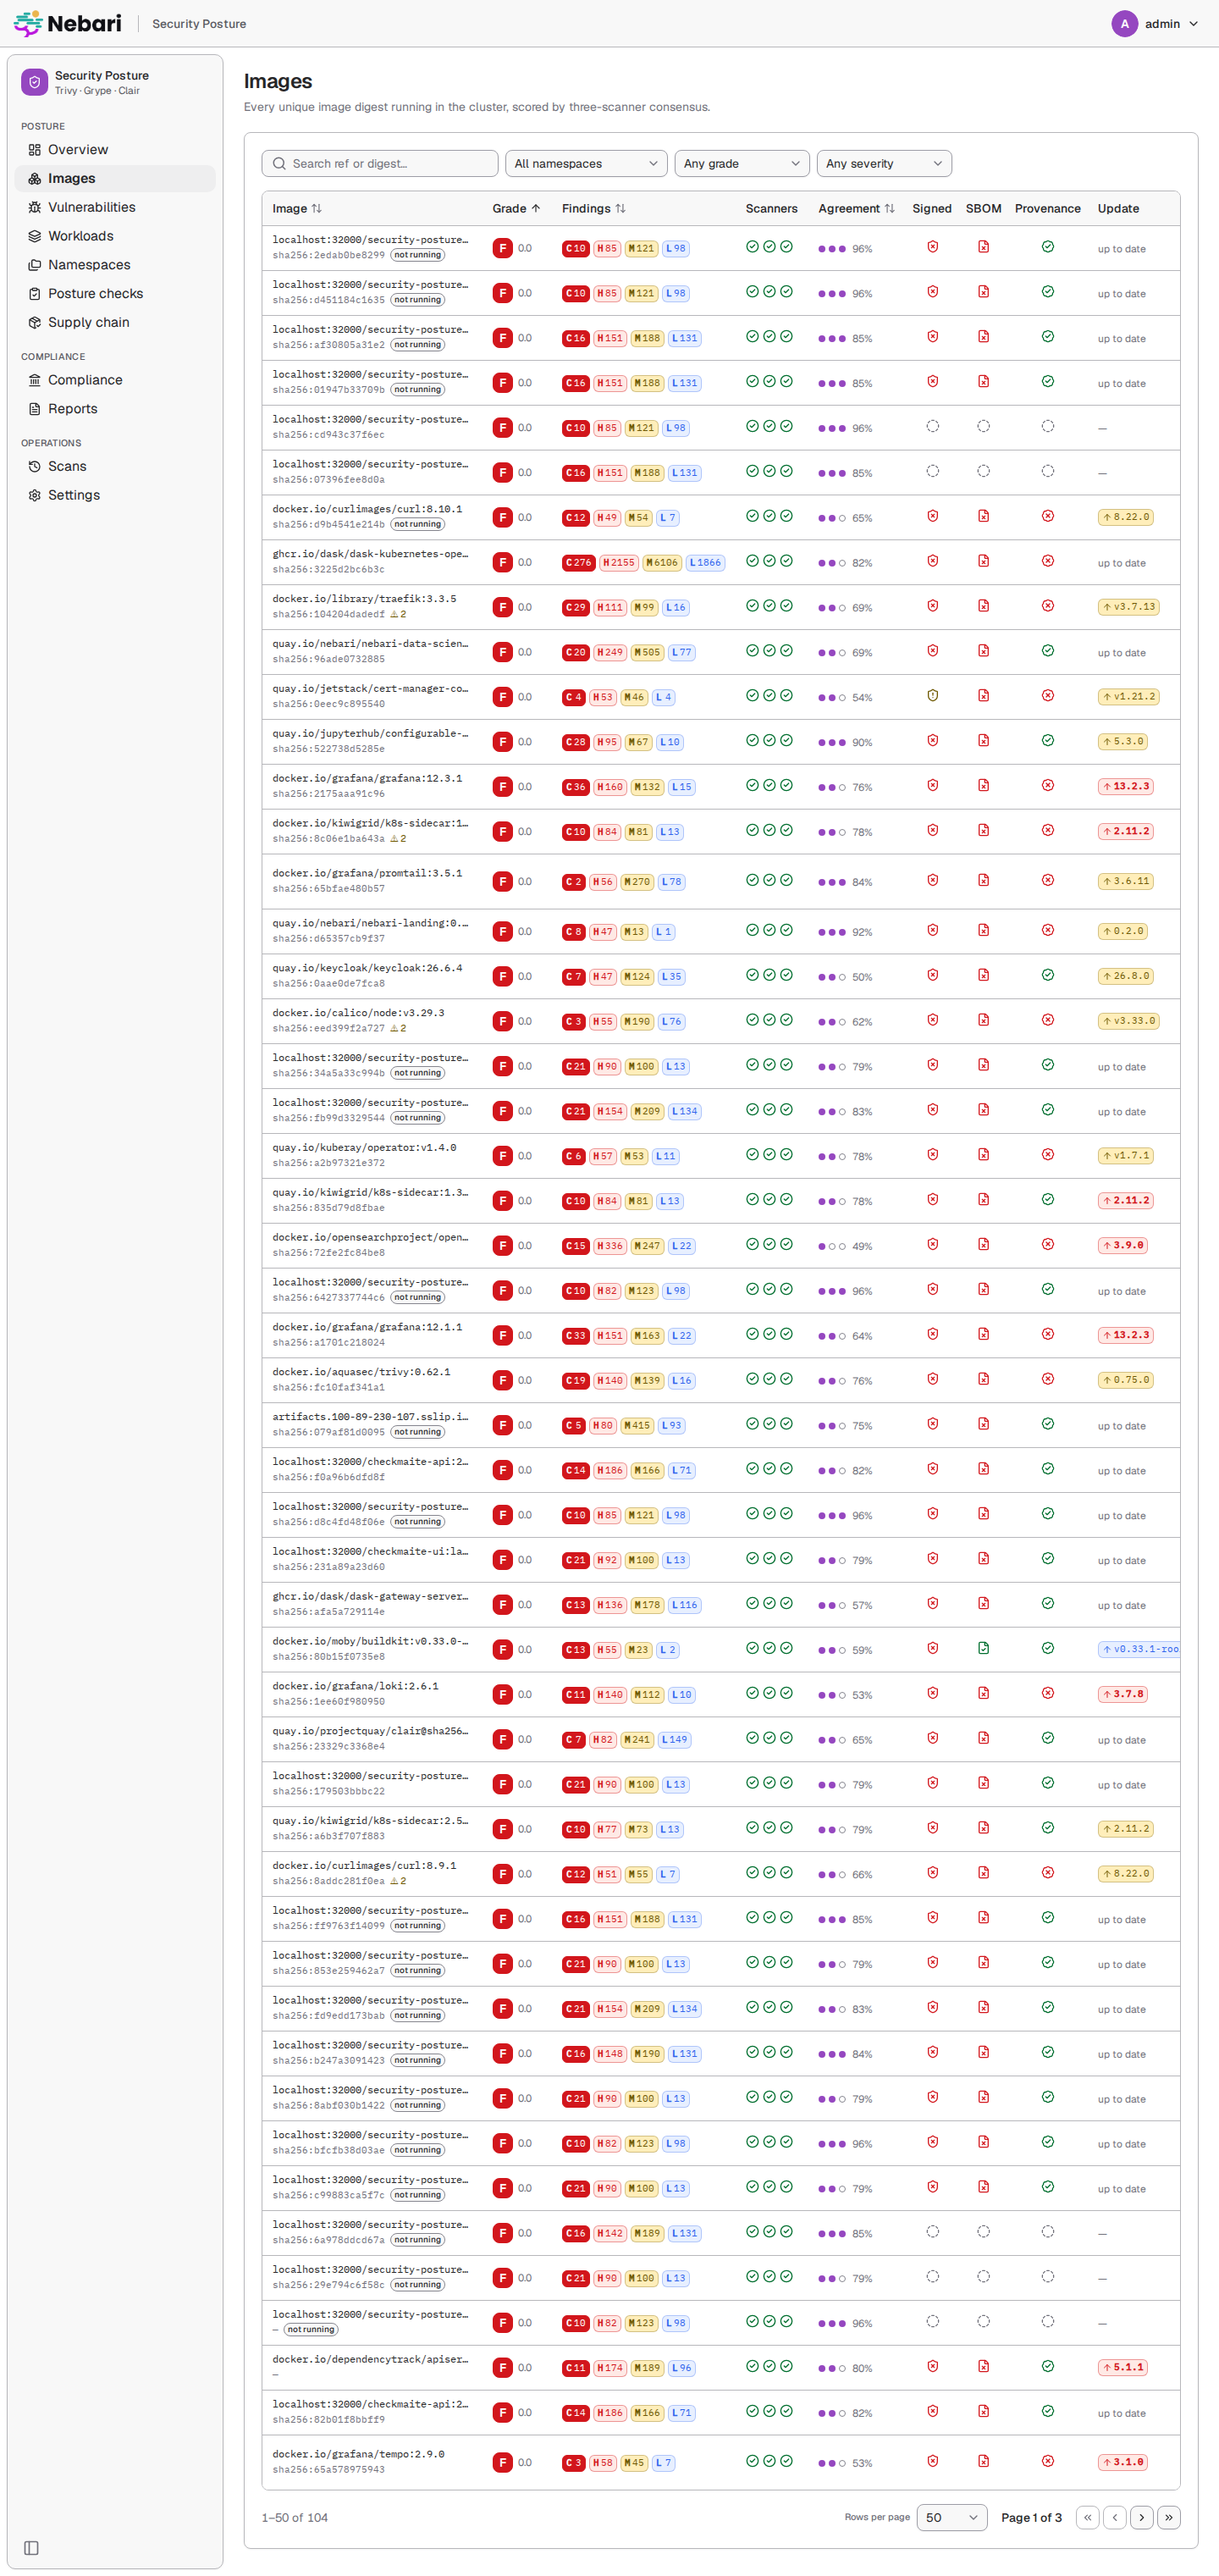
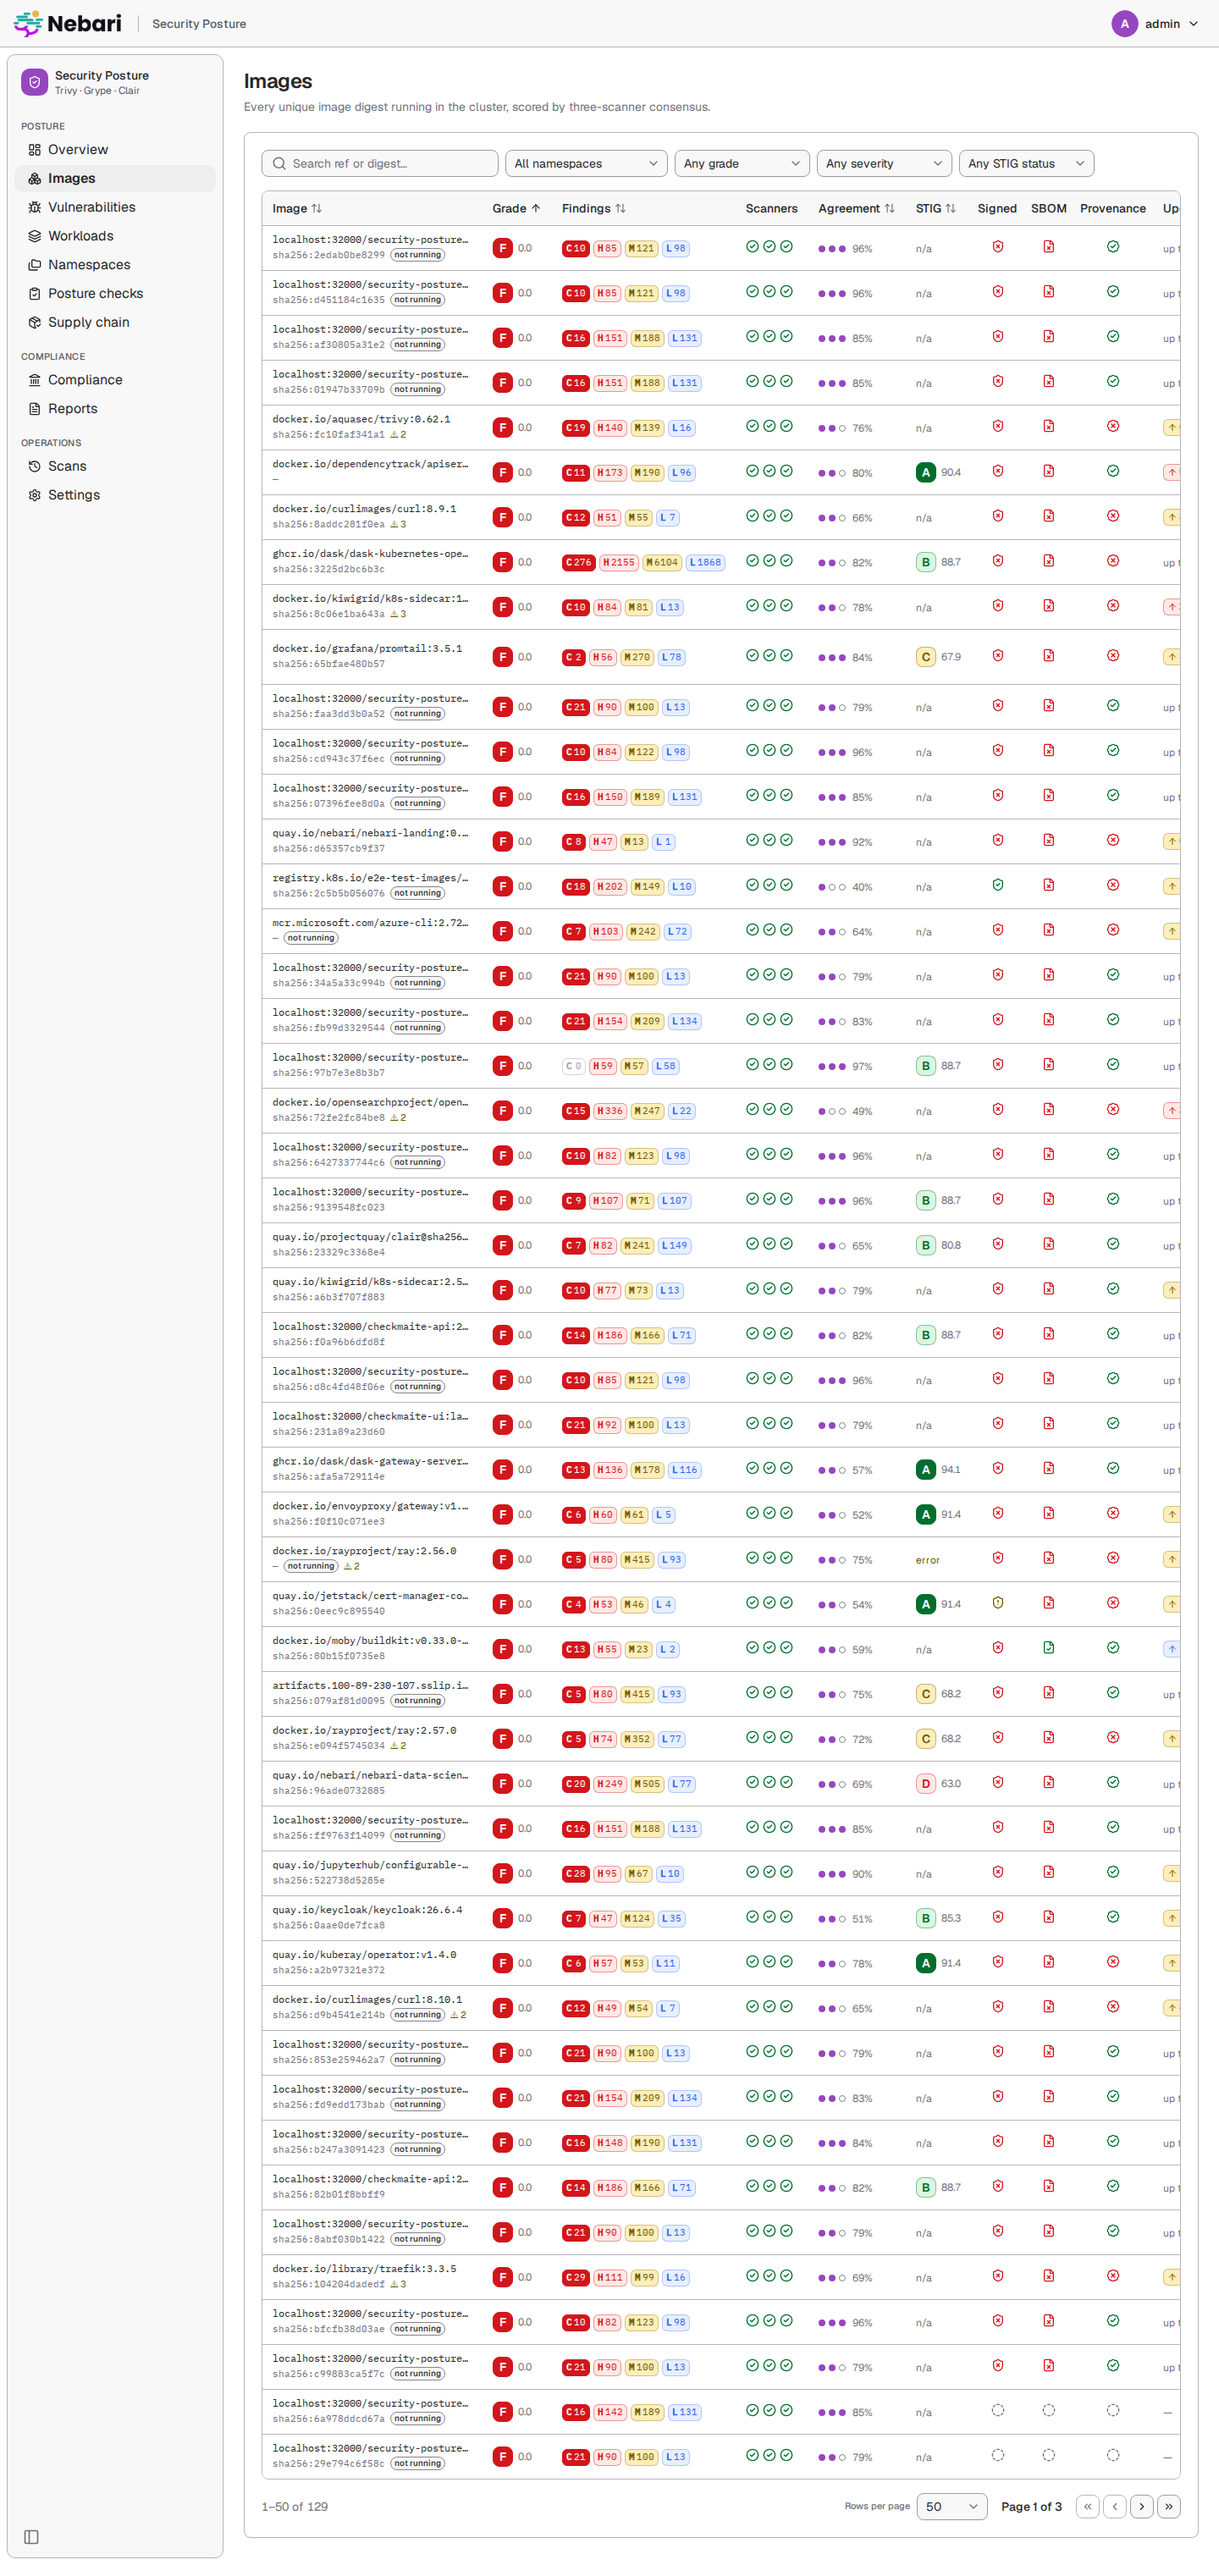
grace: SCAP scanner deployed (rev 19); STIG screenshots; deployment status

Changed region(s): [[0.2188, 0.031, 0.9688, 0.9617], [0.0312, 0.031, 0.125, 0.1861]]

diff --git a/docs/DECISIONS.md b/docs/DECISIONS.md
@@ -98,7 +98,142 @@
   `tests/conftest.py` sets `CONTROLS_ENGINE_ENABLED=false` by default so the shared worker harness
   never reaches a live cluster; `tests/controls_engine` enables it with fake clients.
 
-## Grace deployment status (2026-10-05, scan accounting)
+## Grace deployment status (2026-10-05, SCAP scanner, hardened images, Helm-index cache)
+
+- **Deployed**: helm revision 19 (2026-10-05 04:10:46 UTC), images `01cb9a1-1791172442` (api, worker,
+  ui), built from a clean worktree of origin/master 01cb9a1. The build took 62 s because every
+  layer, including the Go builds of clairctl/cosign/skopeo, was already in the local BuildKit
+  cache from the hardening work, so a cold build was not timed. eb40ea9 (generic VEX, migration
+  0008) and later commits are **not** deployed.
+- **Revision 18 failed** (pre-upgrade hook `ensure-secrets` hit DeadlineExceeded): grace was at 99 %
+  of allocatable memory *requests* (another agent's `test-w3-integration` namespace had just
+  started), so the 128Mi hook pod could not schedule. The hostpath-provisioner helper pods were
+  Pending for the same reason. Nothing changed (rev 17 kept running). For revision 19,
+  `deploy/grace/values.yaml` lowers the worker request from 1Gi to 768Mi and the scap-worker
+  request from 512Mi to 128Mi (limits unchanged). With Recreate rollouts, that release made room
+  instead of needing more.
+- **Rollout**: hooks ensure-secrets and migrate completed; `alembic_version` = `0007_scap`. All pods
+  are Running with 0 restarts, and there were no warning/error lines. New `security-posture-scap-worker`
+  (1 replica, Recreate); PVCs `-scap-worker-content` (2Gi) and `-scap-worker-work` (20Gi) Bound
+  (microk8s-hostpath).
+- **scap-worker privilege, as running**:
+  - Container `runAsUser: 0`, `privileged: false`, `allowPrivilegeEscalation: false`, read-only
+    root fs, seccomp RuntimeDefault, drop ALL + add CHOWN, FOWNER, DAC_OVERRIDE, FSETID, SETFCAP,
+    SYS_CHROOT.
+  - `/proc/1/status`: Uid/Gid 0, CapEff `0x8004001b`, which decodes to exactly those six. CapInh
+    and CapAmb are 0, NoNewPrivs 1, Seccomp 2.
+  - SA `security-posture-scap`, `automountServiceAccountToken: false`; `/var/run/secrets` is
+    absent in the container. Init containers run as 10001 with drop ALL.
+  - No host namespaces and no hostPath.
+- **Content**: fetched on start in 7 s (04:11:38-41). `ssg` 8 files, `disa-rhel9` 1, `disa-postgresql` 1.
+  `scap.content.indexed benchmarks=10 errors=0`, 139 MB on `/content`. `/scanners` lists `scap` 1.4.2,
+  healthy, with 10 content entries (SSG 0.1.82 x8, DISA RHEL 9 `002.009`, DISA PostgreSQL 9.x `2`).
+- **Scans**:
+  - The rollout event scan #42 (ns security-posture, not forced) queued **all 89 inventory images**
+    for SCAP, because none had been evaluated yet. SCAP ran 04:13:57-04:39:45 (26 min), so #42
+    finished with "scap pending" after the 600 s wait.
+  - Forced full scan **#43** (the only forced scan): 04:40:03 → 05:07:21 (27m18s).
+    - 83 inventoried / 83 rescanned, imagesFailed 0; trivy/grype/clair each ok 83, error 0.
+      Score 31.5 (F), vuln 8.8, posture 78.9.
+    - SCAP 04:54:58 → 05:23:04 (28 min for 83 images; the summed oscap time is 430 s; the rest
+      is image copy and flattening). So #43 also finished "scap pending", and its auto-reports
+      (05:07) used a partly updated STIG set.
+    - **On grace every full or forced scan outlasts `SCAP_FINALIZE_WAIT_SECONDS` (600).**
+    - Per-image SCAP status, #43: **evaluated 43 / notApplicable 31 / noContent 5 / error 4 /
+      timeout 0**. All 79 non-error images have rootfsFidelity `full`, oscap 1.4.2.
+    - noContent: 4 nginx-alpine UIs (`disa-nginx`, which is not configured, including our own ui)
+      and opensearch (Amazon Linux, `ssg-al2023`, not in `include`).
+    - error: ray 2.56.0 and node-exporter v1.10.2 (Pending pods; "image has no digest"), and
+      `alpine:3.20` / `postgres:16-alpine`. The scan worker's mirror check reported "mirror copy
+      did not match source digest; re-copied" for those two, the re-copy hit Docker Hub 429, and
+      the scap-worker's copy then failed with 429. Their good #42 results (alpine notApplicable,
+      postgres DISA PostgreSQL evaluated) were **replaced** by the error.
+  - `summary.stig` after #43: evaluated 43, pass 3774, fail 537, CAT I/II/III open 20/390/127,
+    coverage 51.8, notApplicable 31, noContent 5, errors 4, pending 0, score 86.5.
+- **Keycloak 26.6.4 (UBI 9.8)**, SSG RHEL 9 STIG profile:
+  - **68 pass / 14 fail / 393 n/a / 2 notchecked**, CAT I/II/III 2/7/5, score 85.3, fidelity full,
+    4.3 s.
+  - The backend validation had 67/14/394/2 with 1.3.7. Re-running both worker images on the same
+    rootfs locally shows exactly one difference: `accounts_password_all_shadowed_sha512` is
+    notapplicable under 1.3.7 and pass under 1.4.2. Grace matches local 1.4.2 rule for rule.
+  - The DISA RHEL 9 V2R9 benchmark moves further the wrong way under 1.4.2: 68 pass / 287 fail /
+    24 n/a (1.3.7: 253 fail / 58 n/a). 34 rules (SV-257797…SV-258042) go notapplicable → fail,
+    which supports `preferDisa: false`.
+- **Other images**:
+  - coredns 1.13.1: ssg-debian12 CIS L1 123/13/266, 1 unknown, score 91.4.
+  - Our api `01cb9a1`: ssg-debian13 130/18/255, score 88.7. The worker has the same counts.
+  - curl 8.10.1 (Alpine): notApplicable. `postgres@sha256:7218…` (Alpine): DISA PostgreSQL
+    110 notchecked, score null.
+  - SSG RHEL 9 rules carry V-IDs (476/477) but **no CCIs**: SSG 0.1.82's rhel9 datastream has no
+    `CCI-` references. The DISA PostgreSQL rules carry V-IDs and CCIs (110/110). Debian rules
+    (CIS profile) have no V-IDs.
+- **`/stig/benchmarks`** (#43; images evaluated, pass/fail/n/a, CAT I/II/III, mean score):
+  - ssg-rhel9: 6, 408/84/2358, 7/45/32, 87.0
+  - ssg-rhel8: 2, 100/34/648, 3/21/10, 78.3
+  - ssg-ubuntu2404: 3, 71/37/603, 6/28/3, 64.6
+  - ssg-ubuntu2204: 2, 48/20/388, 4/14/2, 68.2
+  - ssg-debian11: 1, 17/5/21, 0/0/5, 94.1
+  - ssg-debian12: 15, 1851/197/3982, 0/152/45, 91.3
+  - ssg-debian13: 10, 1279/160/2590, 0/130/30, 89.9
+  - disa-postgresql: 4, 440 notchecked
+  - Two content-only rows (`id: null`), which the UI hides.
+  - `/compliance/stig` serves `{items (92 Kubernetes rules), product}`, where `product` equals
+    `summary.stig` plus the 8 benchmarks.
+- **Hardened images** (#43, consensus counts C/H/M/L, fixable C/H in brackets):
+  - api: 0/59/57/58 (0/0)
+  - worker: 9/107/71/107 (0/0)
+  - ui: 0/1/3/0 (0/0), score 90.0 (A)
+  - Previous build 065cc06: api 10/84 (0/1), worker 16/150 (6/61), ui 21/90 (12/66).
+  - api and worker still score 0.0 (F), because the score counts unfixed HIGHs. VEX is not applied
+    to the worker's own scans (registry mirror refs, not `security-posture-*`). `summary.vexSuppressed`
+    is absent: eb40ea9 is not deployed.
+- **Provenance / Helm** (DECISIONS "provenance stage, chart update check cached and carried"):
+  - #42, cold cache after the rollout, 3 images checked / 86 carried:
+    `load_ms=33 images_ms=271 helm_discovery_ms=3050 helm_updates_ms=12191 carry_ms=5 persist_ms=219
+    collector_ms=15779`, 18 requests. Index parses (libyaml): prometheus-community 6.5 MB 3671 ms,
+    grafana 4.1 MB 3229 ms, others < 200 ms.
+  - #43, forced, so every image and release is re-checked: `images_ms=137669 helm_discovery_ms=357
+    helm_updates_ms=2671 carry_ms=0 persist_ms=246 collector_ms=140973` (83 checked, 25 registry
+    errors = Docker Hub 429).
+  - The forced scan's 141 s is image checks, not Helm. The steady-state 5-15 s case (non-forced,
+    warm cache) was not observed in this session.
+  - Scan line #43: "chart update checks: **12 checked, 0 carried, 0 not configured, 5 error(s)**,
+    6 request(s)". gateway-helm is checked via `oci://docker.io/envoyproxy/gateway-helm`
+    (v1.2.4 → v1.9.2).
+  - The 5 errors are the unpublished charts (artifact-keeper, bifrost-pack, nebari-checkmaite-pack,
+    dask-gateway-pack, nebari-security-posture-pack). quay.io answers 401 UNAUTHORIZED, not 404,
+    for a repository that does not exist under `oci://quay.io/nebari/charts`. The check counts that
+    as an error, so these releases are retried every scan instead of being `not-configured`.
+- **Reports** (queued after SCAP finished, scan 43):
+  - stig-checklist cklb (12 s) and zip (28 s). The bundle has `kubernetes/*.ckl|cklb` plus
+    `products/index.json` and **43 per-image product checklists** (.ckl + .cklb each), for
+    example `products/quay-io-keycloak-keycloak-26-6-4-ssg-rhel9-scan43-…cklb` (477 rules:
+    not_a_finding 68, open 14, not_applicable 393, not_reviewed 2).
+  - poam xlsx (40 s): 639 rows, of which **535 `SP-STIG-*` product-STIG rows** (Debian 12 197,
+    Debian 13 160, RHEL 9 84, Ubuntu 24.04 35, RHEL 8 34, Ubuntu 22.04 20, Debian 11 5). 138 carry
+    V-IDs, and the Ubuntu rows use `UBTU-24-*` rule versions. **0 product rows carry CCIs**, which
+    is a content gap (see above).
+  - OSCAL AR (58 s, 28 MB): an OpenSCAP component, **39 "STIG failures" observations** (one per
+    image × benchmark with failures; 43 evaluated minus the 4 failure-free PostgreSQL manual
+    checklists), 39 linked risks, 80 linked findings.
+- **Controls**:
+  - The scap-worker fails posture checks `added-capabilities` (high; none in DANGEROUS_CAPS) and
+    `run-as-root` (detail says "runAsNonRoot not set" although it is explicitly `false`).
+  - `k8s-workload-least-privilege` is **fail** for scan 43 and lists
+    `security-posture/Deployment/security-posture-scap-worker` among 28 workloads.
+  - There is **no allowlist / justification mechanism**: only `controlsEngine.systemNamespaces`,
+    which would exempt the whole namespace. The exception is justified in docs/CONTROLS.md only, so
+    the assertion keeps failing while the scap-worker is enabled.
+- **UI** (Playwright, logged in as admin; `deploy/grace/screenshots/`):
+  - `image-stig.png` (keycloak, B 85.3, CAT chips, 477 rules)
+  - `compliance-stig.png` (Kubernetes STIG + Product STIGs)
+  - `stig-benchmark.png` (ssg-rhel9: 6 images, 83 %, 16 failing rules)
+  - `overview.png` (Product STIGs tile: 43 evaluated, 52 % coverage, CAT I 20; OpenSCAP card)
+  - `images.png` (STIG column)
+  - Images that were never evaluated (old, not running tags) show "n/a" in the STIG column, the
+    same label as notApplicable.
+
+## Grace deployment status (2026-10-05, scan accounting; superseded by the section above)
 
 - Deployed: helm revision 17 (2026-10-05 01:42:59 UTC), images `065cc06-1791164424` (api, worker,
   ui; built from a clean worktree of 065cc06: 297f923 scan accounting / scoped post-scan stages /
